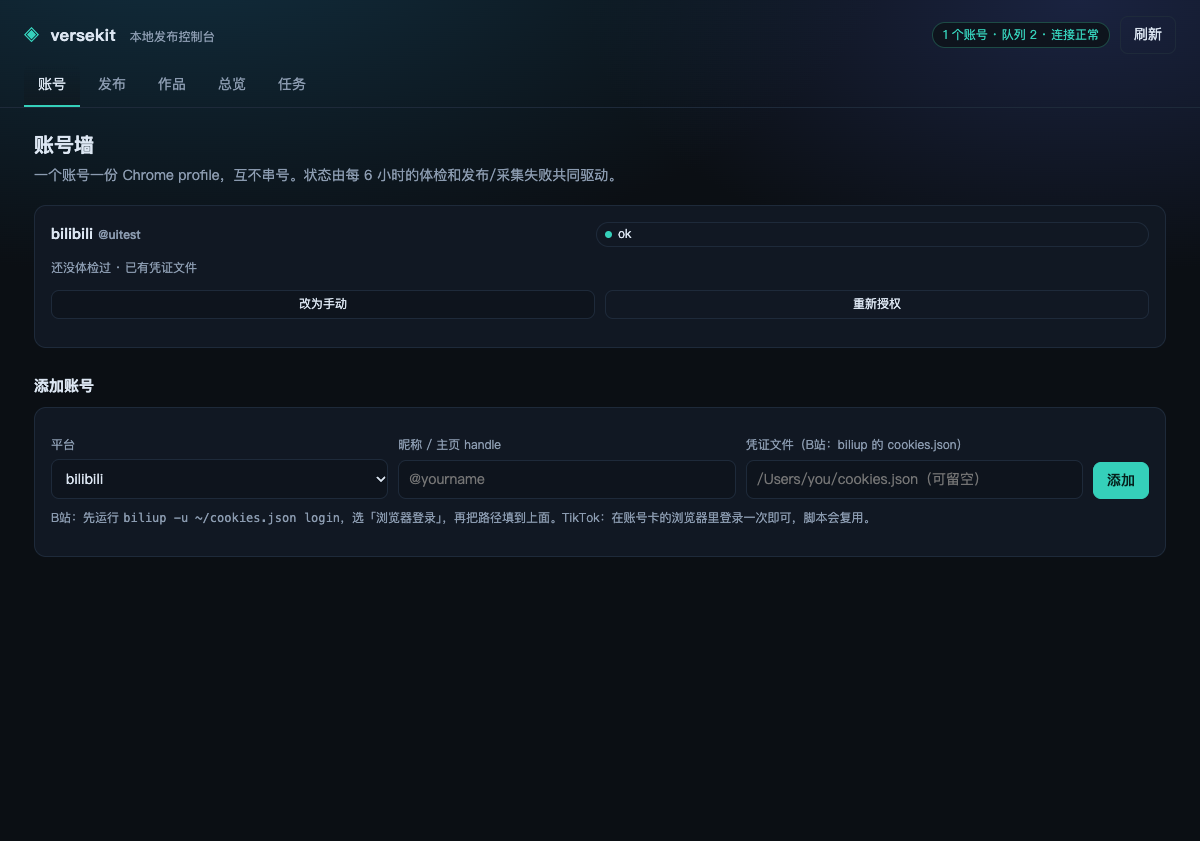
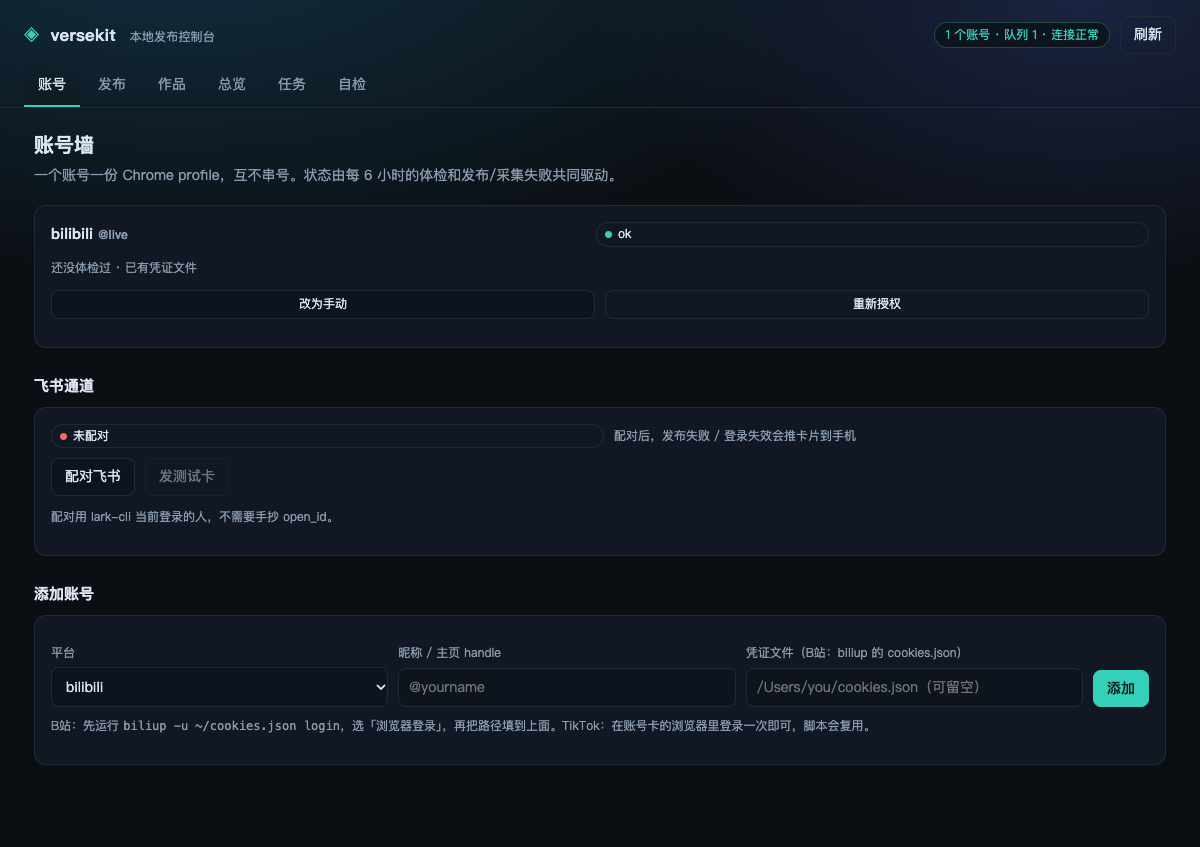
feat(web): 打通实时链路，控制台不再靠轮询
Web 之前能用，但不是「活的」：发布在后台跑，页面要等 20 秒轮询才更新，
新开一条发布甚至要手动刷新才看得见。

- daemon 增加 GET /api/stream（SSE，2 秒一帧）：账号/队列/发布/通道摘要，
  只发变化，不发整页数据
- 前端用 EventSource；状态真的变了才重渲染，正在输入时不打扰；断线由浏览器自动重连
- 账号页新增「飞书通道」卡片：配对状态、配对时间、配对/重发测试卡按钮；
  Web 里配对时由服务端用 lark-cli 当前登录身份解析 open_id，不用手抄
- 传输端点写进 ARCHITECTURE：/api/assets 与 /api/stream 不是命令，不占命令位

真浏览器验证：停在作品页（空列表）→ 从外部创建发布 → 2 秒内新行自己出现，
状态随后自动变 published，全程没有刷新、没有导航。

测试 180 → 181；三道门禁全绿。

diff --git a/packages/web/public/app.js b/packages/web/public/app.js
@@ -61,7 +61,8 @@ const METRIC_LABEL = { play: "播放", like: "点赞", fav: "收藏", comment: "
 // ---------------------------------------------------------------- 账号
 
 async function viewAccounts() {
-  const [{ accounts }, { platforms }] = await Promise.all([api("/api/accounts"), api("/api/platforms")]);
+  const [{ accounts }, { platforms }, now] = await Promise.all([api("/api/accounts"), api("/api/platforms"), api("/api/now")]);
+  const channel = now.channel;
   const usable = platforms.filter((p) => p.publish !== "none");
 
   const cards = accounts
@@ -86,6 +87,19 @@ async function viewAccounts() {
     <h1>账号墙</h1>
     <p class="hint">一个账号一份 Chrome profile，互不串号。状态由每 6 小时的体检和发布/采集失败共同驱动。</p>
     ${accounts.length ? `<div class="grid cols-2">${cards}</div>` : `<div class="empty">还没有账号。先在下面添加一个。</div>`}
+
+    <h2>飞书通道</h2>
+    <div class="card">
+      <div class="row" style="justify-content:space-between;align-items:center">
+        <span class="chip"><i class="dot ${channel.feishu === "bound" ? "ok" : "bad"}"></i>${channel.feishu === "bound" ? "已配对" : "未配对"}</span>
+        <span class="meta">${channel.binding ? `配对于 ${fmtTime(channel.binding.paired_at)}` : "配对后，发布失败 / 登录失效会推卡片到手机"}</span>
+      </div>
+      <div class="row" style="margin-top:10px">
+        <div class="tight"><button id="ch-bind">${channel.feishu === "bound" ? "重新配对" : "配对飞书"}</button></div>
+        <div class="tight"><button class="ghost" id="ch-test" ${channel.feishu !== "bound" ? "disabled" : ""}>发测试卡</button></div>
+      </div>
+      <p class="meta" id="ch-note">配对用 lark-cli 当前登录的人，不需要手抄 open_id。</p>
+    </div>
 
     <h2>添加账号</h2>
     <div class="card">
@@ -112,6 +126,31 @@ async function viewAccounts() {
       toast(err.message, true);
     }
   };
+
+  const chBind = $("#ch-bind");
+  if (chBind) {
+    chBind.onclick = async () => {
+      try {
+        const r = await api("/api/channels/feishu/bind", { method: "POST", body: {} });
+        $("#ch-note").textContent = `已配对：${r.who ?? r.externalUserId}`;
+        toast("飞书已配对");
+      } catch (err) {
+        toast(err.message, true);
+      }
+    };
+  }
+  const chTest = $("#ch-test");
+  if (chTest) {
+    chTest.onclick = async () => {
+      try {
+        const r = await api("/api/channels/feishu/test", { method: "POST", body: {} });
+        toast("测试卡已发送，去飞书看看");
+        $("#ch-note").textContent = r.messageId ? `测试消息 ${r.messageId}` : "测试卡已发送";
+      } catch (err) {
+        toast(err.message, true);
+      }
+    };
+  }
 
   for (const btn of document.querySelectorAll("[data-act]")) {
     btn.onclick = async () => {
@@ -338,6 +377,31 @@ async function viewWorks(selectedId = null) {
     confirm: (id) => api(`/api/publishes/${encodeURIComponent(id)}/confirm`, { method: "POST", body: { publishId: id } }),
     release: (id) => api(`/api/publishes/${encodeURIComponent(id)}/release`, { method: "POST", body: { publishId: id } }),
   };
+  const chBind = $("#ch-bind");
+  if (chBind) {
+    chBind.onclick = async () => {
+      try {
+        const r = await api("/api/channels/feishu/bind", { method: "POST", body: {} });
+        $("#ch-note").textContent = `已配对：${r.who ?? r.externalUserId}`;
+        toast("飞书已配对");
+      } catch (err) {
+        toast(err.message, true);
+      }
+    };
+  }
+  const chTest = $("#ch-test");
+  if (chTest) {
+    chTest.onclick = async () => {
+      try {
+        const r = await api("/api/channels/feishu/test", { method: "POST", body: {} });
+        toast("测试卡已发送，去飞书看看");
+        $("#ch-note").textContent = r.messageId ? `测试消息 ${r.messageId}` : "测试卡已发送";
+      } catch (err) {
+        toast(err.message, true);
+      }
+    };
+  }
+
   for (const btn of document.querySelectorAll("[data-act]")) {
     btn.onclick = async (e) => {
       e.stopPropagation();
@@ -529,17 +593,65 @@ async function render(arg) {
   }
 }
 
-async function ping() {
+let lastSignature = "";
+let renderTimer = null;
+
+function paintPill(status) {
   const pill = $("#pill");
+  if (!pill || !status) return;
+  const bad = status.accounts.by_state.expired + status.accounts.by_state.banned;
+  pill.textContent = `${status.accounts.total} 个账号 · 队列 ${status.queue.queued}${status.queue.running ? `/${status.queue.running}` : ""} · ${bad ? `${bad} 个需重登` : "连接正常"}`;
+  pill.className = `pill ${bad ? "bad" : "ok"}`;
+}
+
+async function ping() {
   try {
-    const now = await api("/api/now");
-    const bad = now.accounts.by_state.expired + now.accounts.by_state.banned;
-    pill.textContent = `${now.accounts.total} 个账号 · 队列 ${now.queue.queued} · ${bad ? `${bad} 个需重登` : "连接正常"}`;
-    pill.className = `pill ${bad ? "bad" : "ok"}`;
+    paintPill(await api("/api/now"));
   } catch {
-    pill.textContent = "守护进程未连接";
-    pill.className = "pill bad";
+    $("#pill").textContent = "守护进程未连接";
+    $("#pill").className = "pill bad";
   }
+}
+
+const signatureOf = (d) =>
+  JSON.stringify([
+    d.status.accounts,
+    d.status.queue,
+    d.status.publishes,
+    d.status.channel,
+    (d.publishes ?? []).map((p) => [p.id, p.state]),
+    (d.runs ?? []).map((r) => [r.id, r.state, r.attempts]),
+  ]);
+
+/** 状态真的变了才重渲染；正在输入时不打扰。 */
+function onStreamFrame(d) {
+  paintPill(d.status);
+  const sig = signatureOf(d);
+  if (sig === lastSignature) return;
+  lastSignature = sig;
+  if (document.activeElement?.matches("input,select,textarea")) return;
+  if (!["overview", "tasks", "accounts", "works"].includes(current())) return;
+  clearTimeout(renderTimer);
+  renderTimer = setTimeout(() => render(), 400);
+}
+
+function connectStream() {
+  if (!("EventSource" in window)) return null;
+  const es = new EventSource("/api/stream");
+  es.onmessage = (e) => {
+    let d;
+    try {
+      d = JSON.parse(e.data);
+    } catch {
+      return;
+    }
+    onStreamFrame(d);
+  };
+  // 断了就交给浏览器自动重连；这里是排障用的提示。
+  es.onerror = () => {
+    $("#pill").textContent = "实时流断开，自动重连中";
+  };
+  return es;
 }
 
 window.addEventListener("hashchange", () => render());
@@ -547,10 +659,7 @@ $("#refresh").onclick = () => {
   ping();
   render();
 };
-setInterval(() => {
-  ping();
-  if (["overview", "tasks", "accounts", "doctor"].includes(current()) && !document.activeElement?.matches("input,select,textarea")) render();
-}, 20000);
 
 ping();
+connectStream();
 render();

diff --git a/README.md b/README.md
@@ -113,7 +113,7 @@ flowchart LR
 | 守护进程（unix socket + 本地 HTTP 共用一份 dispatch · 审计） | ✅ |
 | Chrome CDP 驱动（每账号 profile/端口 · 真实鼠标 · shadow DOM · 响应拦截） | ✅ |
 | CLI（19 条命令，含 publish / account / collect / stats / runs / events） | ✅ |
-| **本地 Web 控制台**（账号墙 / 发布台 / 作品 / 总览 / 任务日志） | ✅ 真浏览器验收 |
+| **本地 Web 控制台**（账号墙 / 发布台 / 作品 / 总览 / 任务日志 / 自检） | ✅ 真浏览器验收 + SSE 实时刷新 |
 | 适配器 B站（biliup 发布 + 创作中心采集 + 登录体检） | ✅ 待真机验收 |
 | 适配器 TikTok（Studio 发布 + 后台拦截采集 + 登录探测） | ✅ 待真机验收 |
 | 飞书通道（卡片投递 + 按钮回执，走 lark-cli） | ✅ 端到端已验证：点按钮 → 执行命令 → 原地更新卡片 |

diff --git a/docs/ARCHITECTURE.md b/docs/ARCHITECTURE.md
@@ -315,6 +315,13 @@ defineCommand({
 
 `--json` 是默认，`--human` 才给人看；`--dry-run` 对 `publish` 与 `collect` 都必须可用。
 
+**传输端点（不属于命令表）**：Web 有两个只能由浏览器用的端点，它们不是新能力，所以不占命令位：
+
+| 端点 | 用途 | 为什么不是命令 |
+|---|---|---|
+| `POST /api/assets` | 浏览器把文件传成素材，返回本机路径 | CLI 直接用文件路径，能力等价 |
+| `GET /api/stream` | SSE 实时状态（2s 一帧），控制台靠它自动刷新 | 纯推送，没有任何写操作 |
+
 ---
 
 ## 6. 事件与通道
